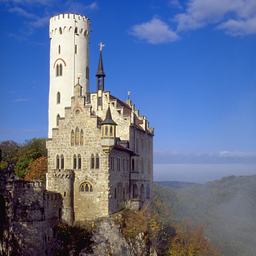
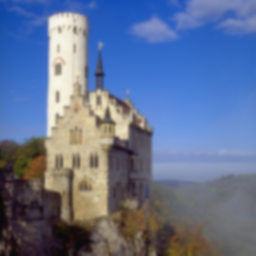
apply kernel

diff --git a/src/editor.h b/src/editor.h
@@ -161,6 +161,57 @@ double** kernel_filter(int kernel_size, float sigma)
 
 }
 
+void apply_kernel(double**kernel, int KERNEL_SIZE)
+{
+    int KERNEL_RADIUS = (KERNEL_SIZE / 2) -1;
+    png_bytep* output = (png_bytep*)malloc(height * sizeof(png_bytep));
+
+
+    for (int i = 0; i < height; ++i) {
+        output[i] = (png_bytep)malloc(width * 4 * sizeof(png_byte));
+    }
+
+
+    for (int y = 0; y < height; ++y) {
+        for (int x = 0; x < width; ++x) {
+            double r_sum = 0, g_sum = 0, b_sum = 0;
+            double kernel_sum = 0;
+            for (int ky = -KERNEL_RADIUS; ky <= KERNEL_RADIUS; ++ky) {
+                for (int kx = -KERNEL_RADIUS; kx <= KERNEL_RADIUS; ++kx) {
+                    int ix = x + kx;
+                    int iy = y + ky;
+
+                    if (ix >= 0 && ix < width && iy >= 0 && iy < height) {
+                        png_bytep px = pixels[iy] + ix * 4;
+
+                        double kernel_value = kernel[KERNEL_RADIUS + ky][KERNEL_RADIUS + kx];
+
+                        r_sum += px[0] * kernel_value;
+                        g_sum += px[1] * kernel_value;
+                        b_sum += px[2] * kernel_value;
+
+                        kernel_sum += kernel_value;
+                    }
+                }
+            }
+            png_bytep out_px = output[y] + x * 4;
+            out_px[0] = (png_byte)(r_sum / kernel_sum) % 255;
+            out_px[1] = (png_byte)(g_sum / kernel_sum) % 255;
+            out_px[2] = (png_byte)(b_sum / kernel_sum) % 255;
+            out_px[3] = 255;
+        }
+    }
+
+
+    for (int i = 0; i < height; ++i) {
+        memcpy(pixels[i], output[i], width * 4 * sizeof(png_byte));
+        free(output[i]);
+    }
+    free(output);
+
+
+}
+
 void gaussian_factors(char* args, double* factors)
 {
     char *token;
@@ -180,25 +231,20 @@ void gaussian(char* args)
 {
 
     double factors[2];
-    int kernel_size;
+    int KERNEL_SIZE;
     float sigma;
     gaussian_factors(args, factors);
 
-    kernel_size = factors[0];
+    KERNEL_SIZE = factors[0];
     sigma = factors[1];
 
 
-    double **kernel = kernel_filter(kernel_size, sigma);
 
-    for (int row=0; row<kernel_size; row++)
-    {
-        for (int col=0; col<kernel_size; col++)
-        {
-            printf("%f ", kernel[row][col]);
 
-        }
-        printf("\n");
-    }
+    double **kernel = kernel_filter(KERNEL_SIZE, sigma);
+    apply_kernel(kernel, KERNEL_SIZE);
+
+
 
 }
 

diff --git a/README.md b/README.md
@@ -62,13 +62,33 @@ $ ./image-edit -i input.png -o output.png -b 1.2
 
 ![](https://github.com/alperakkin/image-editor/blob/main/examples/castle-bright.png)
 
+
+### Gaussian Blur
+To apply Gaussian Blur to the desired image file, add following parameters
+
+
+```bash
+$ ./image-edit -i examples/castle.png  --gaussian 50x1.4  -o examples/castle-gaussian.png
+```
+
+The --gaussian 50x1.4 parameter applies a Gaussian blur effect, where 50 specifies the size of the Gaussian kernel matrix (e.g., 50x50), and 1.4 indicates the standard deviation (sigma) of the Gaussian distribution.
+
+
+#### Input
+![](https://github.com/alperakkin/image-editor/blob/main/examples/castle.png)
+
+#### Output
+
+![](https://github.com/alperakkin/image-editor/blob/main/examples/castle-gaussian.png)
+
 ## PARAMETERS
 
--i: Input Image Path  
--o: Output Image Path  
--g: Gray Scale  
--c: Contrast  
--b: Brightness  
+-i: Input Image Path
+-o: Output Image Path
+-g: Gray Scale
+-c: Contrast
+-b: Brightness
+--gaussian: Gaussian Blur
 
 
 It is also possible to apply multi filters at once
